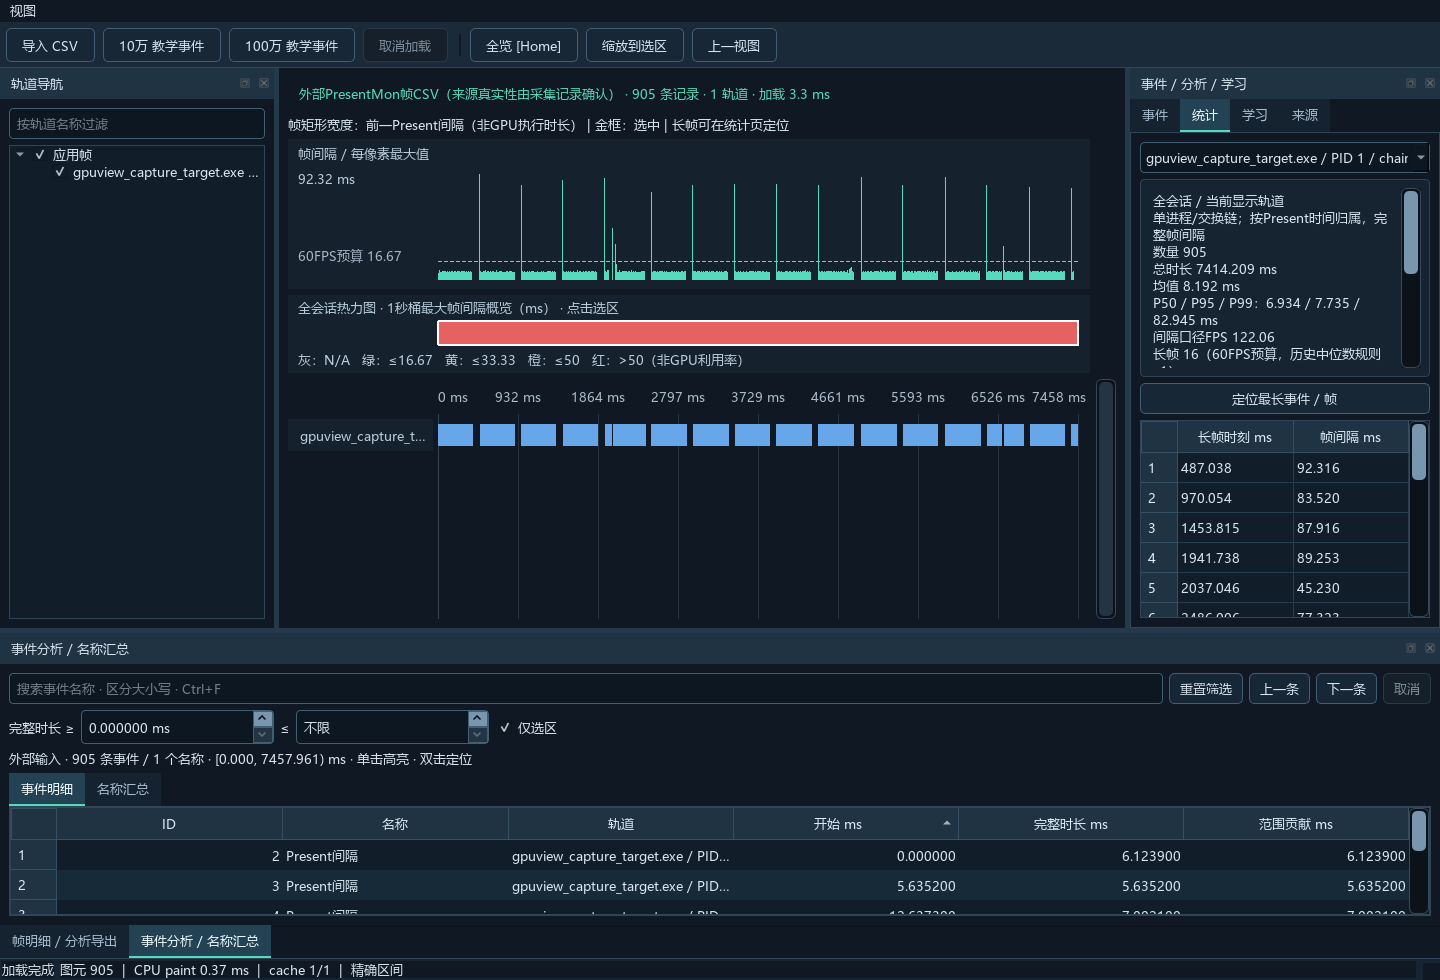
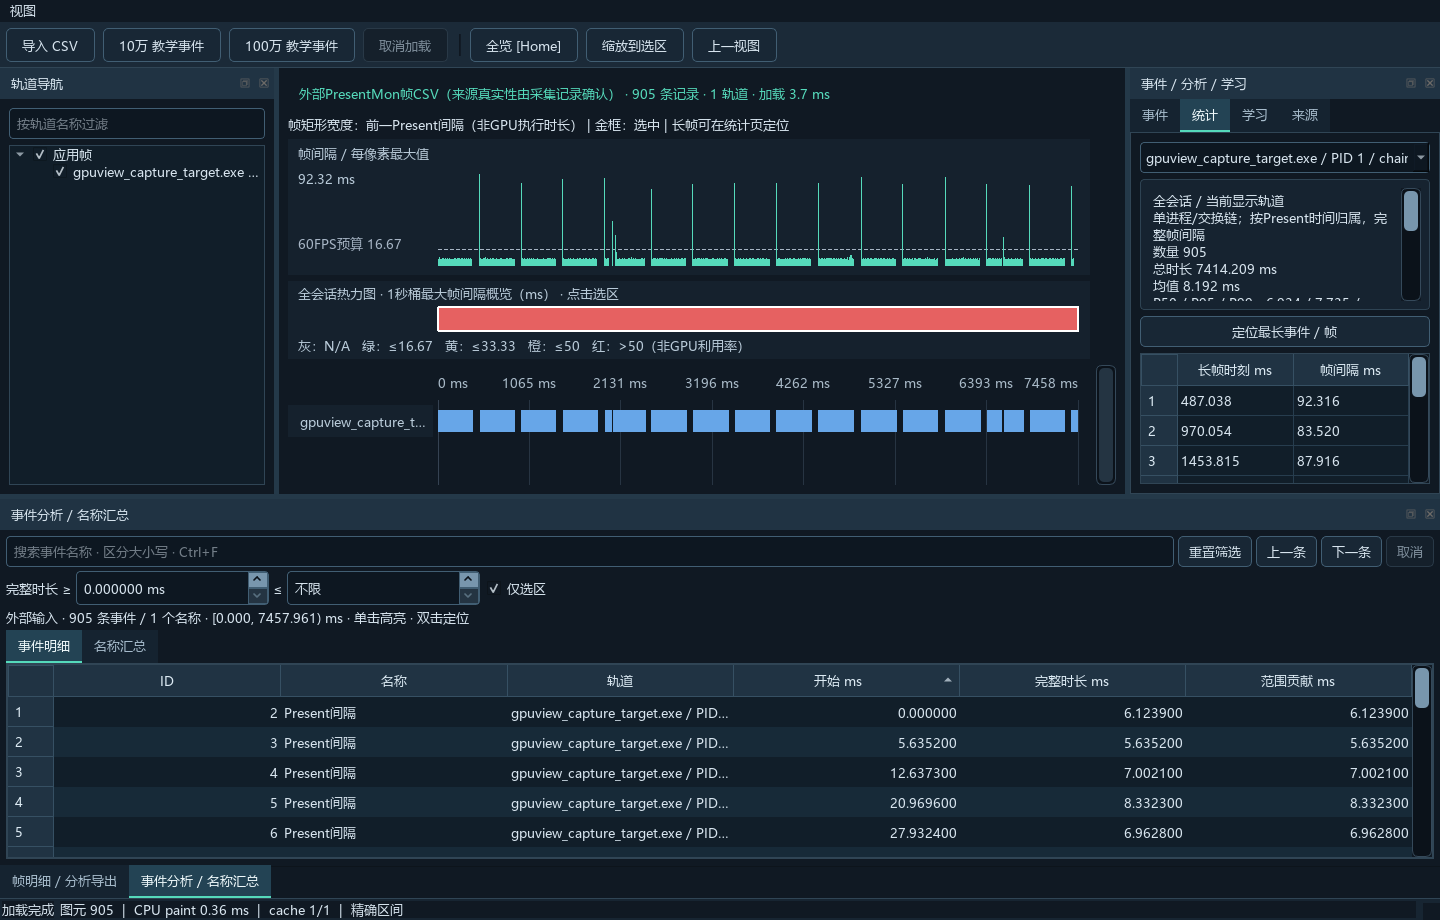
Fit compact frame workspaces and prevent time label overlap

diff --git a/tests/ui/ui_tests.cpp b/tests/ui/ui_tests.cpp
@@ -15,6 +15,8 @@
 #include "ui_widgets/frame_details_panel.h"
 #include "ui_widgets/frame_heatmap.h"
 #include "ui_widgets/event_explorer.h"
+#include "ui_widgets/theme.h"
+#include "ui_widgets/time_axis.h"
 #include <QPushButton>
 #include <QDoubleSpinBox>
 #include <QTableView>
@@ -23,11 +25,47 @@
 #include <QCheckBox>
 #include <QProgressBar>
 #include <QLabel>
+#include <QHeaderView>
 using namespace gpuview;
 /// Qt Test界面回归集合；在离屏环境模拟输入并断言可观察状态。
 class UiTests : public QObject {
     Q_OBJECT
 private slots:
+    /// 使用实际应用的中文字体和样式，避免默认测试字体掩盖窗口最小尺寸问题。
+    void initTestCase() { configureApplicationTheme(*qApp); }
+    /// 不同范围、宽度、字体下标签均不越界/重叠；减少刻度不能改变首末时间位置。
+    void timeAxisLabelsFitAvailableWidth() {
+        for(int pointSize:{10,16}) {
+            QFont font=qApp->font(); font.setPointSize(pointSize); const QFontMetrics metrics(font);
+            for(int width:{40,160,318,400,1000}) for(TimeRange range:{TimeRange{0,7457961000LL},TimeRange{10000000,10000100},TimeRange{0,120000000000LL}}) {
+                const auto ticks=timeAxisTicks(range,width,metrics); QVERIFY(!ticks.empty()); QVERIFY(ticks.size()<=9);
+                QCOMPARE(ticks.front().x,0); int previousRight=-10;
+                for(const auto& tick:ticks) {
+                    QVERIFY(tick.labelLeft>=previousRight+10);
+                    const int right=tick.labelLeft+metrics.horizontalAdvance(tick.text); QVERIFY(right<=width);
+                    previousRight=right;
+                }
+                if(ticks.size()>1) QCOMPARE(ticks.back().x,width);
+            }
+        }
+        QVERIFY(timeAxisTicks({1,1},400,QFontMetrics(qApp->font())).empty());
+        QVERIFY(timeAxisTicks({0,1},0,QFontMetrics(qApp->font())).empty());
+    }
+    /// 真实帧模式应适配1200x800逻辑像素；可选环境路径保存高DPI截图用于目视复核。
+    void frameWorkspaceFitsCompactWindow() {
+        MainWindow window; window.resize(1200,800); window.show();
+        window.controller()->requestFile(QFINDTESTDATA("../../data/samples/presentmon-real.csv"));
+        auto* model=window.findChild<EventAnalysisModel*>("eventResultsModel");
+        QTRY_COMPARE_WITH_TIMEOUT(model->rowCount(),905,5000);
+        QTRY_COMPARE_WITH_TIMEOUT(window.findChild<FrameTableModel*>()->rowCount(),905,5000);
+        QCOMPARE(window.size(),QSize(1200,800));
+        auto* table=window.findChild<QTableView*>("eventResults");
+        QVERIFY(table->viewport()->height()>=2*table->verticalHeader()->defaultSectionSize());
+        QVERIFY(window.timeline()->height()>=120);
+        QCOMPARE(window.findChild<FrameTimeWidget*>()->width(),window.timeline()->width());
+        const auto capture=qEnvironmentVariable("GPUVIEW_TEST_CAPTURE");
+        if(!capture.isEmpty()) QVERIFY(window.grab().save(capture));
+    }
     /// 非法上下限不发布旧结果，回车纠正立即提交；快捷导航沿当前排序前后切换。
     void searchValidationAndKeyboardNavigation() {
         EventExplorer panel; panel.resize(1100,320); panel.show();

diff --git a/src/ui_widgets/timeline_widget.cpp b/src/ui_widgets/timeline_widget.cpp
@@ -1,6 +1,7 @@
 /// @file src/ui_widgets/timeline_widget.cpp
 /// @brief 自绘多轨时间轴、缩放/平移/选择、轨道滚动及诊断；不可变源数据与交互状态分离。
 #include "ui_widgets/timeline_widget.h"
+#include "ui_widgets/time_axis.h"
 #include <QElapsedTimer>
 #include <QKeyEvent>
 #include <QMouseEvent>
@@ -12,7 +13,8 @@
 namespace gpuview {
 /// 初始化自绘时间轴的输入/焦点策略，源数据由不可变快照拥有。
 TimelineWidget::TimelineWidget(QWidget* parent) : QWidget(parent) {
-    setMinimumSize(480, 240);
+    // 小窗口至少保留刻度和两条完整轨道；更多轨道通过已有滚动条访问。
+    setMinimumSize(480, 120);
     setMouseTracking(true);
     setFocusPolicy(Qt::StrongFocus);
 }
@@ -139,19 +141,11 @@ void TimelineWidget::paintEvent(QPaintEvent*) {
     const auto& batch = cache_.get(snapshot_, {snapshot_->version, view, plotWidth, firstTrack_, tracks_.empty() ? 0u : visibleTracks, tracks_});
     lastPrimitives_ = batch.primitives.size();
     painter.setPen(QColor("#354252"));
-    for (int tick = 0; tick <= 8; ++tick) {
-        const int x = gutter + plotWidth * tick / 8;
+    for (const auto& tick : timeAxisTicks(view,plotWidth,painter.fontMetrics())) {
+        const int x = gutter + tick.x;
         painter.drawLine(x, top - 5, x, height());
         painter.setPen(QColor("#a9bac8"));
-        const auto spanNs = view.end - view.begin;
-        const auto time = view.begin + (spanNs / 8) * tick + (spanNs % 8) * tick / 8;
-        const auto span = view.end - view.begin;
-        const double unit = span >= 10000000000LL ? 1e9 : span >= 1000000 ? 1e6 : 1e3;
-        const QString suffix = unit == 1e9 ? " s" : unit == 1e6 ? " ms" : QStringLiteral(" μs");
-        const int precision = std::clamp(int(std::ceil(-std::log10(double(span) / unit / 8))), 0, 6);
-        const auto label = QString::number(double(time) / unit, 'f', precision) + suffix;
-        const auto labelWidth = painter.fontMetrics().horizontalAdvance(label);
-        painter.drawText(std::clamp(x - labelWidth / 2, gutter, width() - labelWidth - 4), 23, label);
+        painter.drawText(gutter+tick.labelLeft,23,tick.text);
         painter.setPen(QColor("#273442"));
     }
     for (std::uint32_t index = firstTrack_; index < std::min(std::uint32_t(tracks_.size()), firstTrack_ + visibleTracks); ++index) {

diff --git a/src/ui_widgets/time_axis.cpp b/src/ui_widgets/time_axis.cpp
@@ -1,0 +1,30 @@
+/// @file time_axis.cpp
+/// @brief 小规模标签布局，只度量至多九个字符串，不扫描事件或改变时间视口。
+#include "ui_widgets/time_axis.h"
+#include <algorithm>
+#include <cmath>
+namespace gpuview {
+/// 采用真实字体宽度试排；端点优先，无法同时容纳两个标签时只显示省略后的起点。
+std::vector<TimeAxisTick> timeAxisTicks(TimeRange range,int width,const QFontMetrics& metrics) {
+    if(width<=0 || range.begin<0 || range.end<=range.begin) return {};
+    const auto span=range.end-range.begin;
+    const double unit=span>=10000000000LL?1e9:span>=1000000?1e6:1e3;
+    const QString suffix=unit==1e9?" s":unit==1e6?" ms":QStringLiteral(" μs");
+    for(int count=8;count>=1;--count) {
+        const int precision=std::clamp(int(std::ceil(-std::log10(double(span)/unit/count))),0,6);
+        std::vector<TimeAxisTick> ticks; int previousRight=-10; bool fits=true;
+        for(int i=0;i<=count;++i) {
+            // 先商后乘，避免大纳秒跨度直接乘刻度序号溢出。
+            const auto time=range.begin+(span/count)*i+(span%count)*i/count;
+            const auto text=QString::number(double(time)/unit,'f',precision)+suffix;
+            const int textWidth=metrics.horizontalAdvance(text);
+            const int x=int(qint64(width)*i/count);
+            const int left=std::clamp(x-textWidth/2,0,std::max(0,width-textWidth));
+            if(textWidth>width || left<previousRight+10) { fits=false; break; }
+            ticks.push_back({x,left,text}); previousRight=left+textWidth;
+        }
+        if(fits) return ticks;
+    }
+    return {{0,0,metrics.elidedText(QString::number(double(range.begin)/unit,'f',3)+suffix,Qt::ElideRight,width)}};
+}
+}

diff --git a/src/ui_widgets/event_explorer.cpp b/src/ui_widgets/event_explorer.cpp
@@ -75,6 +75,7 @@ EventExplorer::EventExplorer(QWidget* parent):QWidget(parent) {
     setObjectName("eventExplorer");
     setToolTip(QStringLiteral("筛选只作用于本面板；现有帧分析导出仍使用统计页的组和选区，不包含这里的名称/时长筛选。"));
     auto* layout=new QVBoxLayout(this); auto* searchRow=new QHBoxLayout; auto* controls=new QHBoxLayout;
+    layout->setContentsMargins(6,6,6,6); layout->setSpacing(4);
     text_=new QLineEdit; text_->setObjectName("eventSearch");
     text_->setPlaceholderText(QStringLiteral("搜索事件名称 · 区分大小写 · Ctrl+F")); text_->setClearButtonEnabled(true);
     text_->setAccessibleName(QStringLiteral("搜索事件名称")); searchRow->addWidget(text_,1);
@@ -106,6 +107,8 @@ EventExplorer::EventExplorer(QWidget* parent):QWidget(parent) {
         table->setEditTriggers(QAbstractItemView::NoEditTriggers); table->setAlternatingRowColors(true);
         table->verticalHeader()->setSectionResizeMode(QHeaderView::Fixed);
         table->verticalHeader()->setDefaultSectionSize(30); table->setShowGrid(false);
+        // 允许面板缩到表头加两行，完整结果仍由滚动条访问，不依赖默认平台最小尺寸。
+        table->setMinimumHeight(96);
         table->horizontalHeader()->setSectionResizeMode(QHeaderView::Stretch);
         table->setSortingEnabled(true);
     }

diff --git a/src/app/main.cpp b/src/app/main.cpp
@@ -6,25 +6,13 @@
 #include "ui_widgets/theme.h"
 #include <QApplication>
 #include <QTimer>
-#include <QFile>
-#include <QTextStream>
-#include <QFontDatabase>
-#include <QDir>
 #include <QTabWidget>
 /// 应用进程入口；建立Qt事件循环，处理教学/CSV启动和离屏截图参数。
 int main(int argc, char** argv) {
     QApplication app(argc, argv);
     app.setApplicationName("GPUView");
     app.setApplicationVersion("0.4.0");
-    // Fusion以Qt调色板绘制标准控件，使深色箭头/复选框跨系统主题保持可见。
-    app.setStyle(QStringLiteral("Fusion")); app.setPalette(gpuview::darkPalette());
-    // Windows离屏平台不一定自动枚举系统字体；只读取本机字体，不打包分发字体文件。
-#ifdef Q_OS_WIN
-    const auto fontPath = QDir(qEnvironmentVariable("SystemRoot", "C:/Windows")).filePath("Fonts/msyh.ttc");
-    const int fontId = QFontDatabase::addApplicationFont(fontPath);
-    const auto families = QFontDatabase::applicationFontFamilies(fontId);
-    if (!families.isEmpty()) app.setFont(QFont(families.front(), 10));
-#endif
+    gpuview::configureApplicationTheme(app);
     gpuview::MainWindow window;
     const auto args = app.arguments();
     const int openFile = args.indexOf("--open");

diff --git a/src/ui_widgets/main_window.cpp b/src/ui_widgets/main_window.cpp
@@ -82,7 +82,7 @@ MainWindow::MainWindow(QWidget* parent) : QMainWindow(parent) {
     tabs->addTab(detail,QStringLiteral("事件"));
     auto* analysisPage = new QWidget; auto* analysisLayout = new QVBoxLayout(analysisPage);
     auto* group = new QComboBox; group->setObjectName("statisticsGroup"); analysisLayout->addWidget(group);
-    auto* summary = new QTextBrowser; summary->setObjectName("statisticsSummary"); summary->setMinimumHeight(160); analysisLayout->addWidget(summary,1);
+    auto* summary = new QTextBrowser; summary->setObjectName("statisticsSummary"); summary->setMinimumHeight(120); analysisLayout->addWidget(summary,1);
     auto* longest = new QPushButton(QStringLiteral("定位最长事件 / 帧")); longest->setEnabled(false); analysisLayout->addWidget(longest);
     auto* longTable = new QTableWidget(0,2); longTable->setObjectName("longFrames"); longTable->setHorizontalHeaderLabels({QStringLiteral("长帧时刻 ms"),QStringLiteral("帧间隔 ms")});
     longTable->setEditTriggers(QAbstractItemView::NoEditTriggers); longTable->setSelectionBehavior(QAbstractItemView::SelectRows);

diff --git a/src/ui_widgets/theme.cpp b/src/ui_widgets/theme.cpp
@@ -1,7 +1,19 @@
 /// @file theme.cpp
 /// @brief 深色工作台样式，显式区分焦点、选择、禁用、悬停和滚动滑块。
 #include "ui_widgets/theme.h"
+#include <QApplication>
+#include <QFontDatabase>
+#include <QDir>
 namespace gpuview {
+/// 离屏平台未必枚举系统字体，测试必须使用与应用相同的字体和样式才能验证尺寸。
+void configureApplicationTheme(QApplication& app) {
+    app.setStyle(QStringLiteral("Fusion")); app.setPalette(darkPalette());
+#ifdef Q_OS_WIN
+    const auto fontPath=QDir(qEnvironmentVariable("SystemRoot","C:/Windows")).filePath("Fonts/msyh.ttc");
+    const auto families=QFontDatabase::applicationFontFamilies(QFontDatabase::addApplicationFont(fontPath));
+    if(!families.isEmpty()) app.setFont(QFont(families.front(),10));
+#endif
+}
 /// 显式设置文字/按钮/占位/禁用角色，避免系统浅色调色板在深色背景画黑色箭头。
 QPalette darkPalette() {
     QPalette palette;

diff --git a/src/ui_widgets/frame_time_widget.h b/src/ui_widgets/frame_time_widget.h
@@ -9,7 +9,9 @@ class FrameTimeWidget : public QWidget {
     Q_OBJECT
 public:
     /// 设置帧曲线高度；只消费已发布快照，不直接解析CSV。
-    explicit FrameTimeWidget(QWidget* parent = nullptr) : QWidget(parent) { setMinimumHeight(150); setMaximumHeight(210); }
+    explicit FrameTimeWidget(QWidget* parent = nullptr) : QWidget(parent) { setMinimumHeight(110); setMaximumHeight(210); }
+    /// 常规窗口优先150逻辑像素，紧凑窗口允许压缩，仍保留尖峰和预算线。
+    QSize sizeHint() const override { return {480,150}; }
     /// 绑定当前源轨道的只读快照并恢复全范围；track由上层有效分组提供。
     void setData(Snapshot snapshot, std::uint32_t track) { snapshot_=std::move(snapshot); track_=track; if(snapshot_) range_=snapshot_->bounds; update(); }
     /// 同步可见纳秒范围并请求重绘，不在此重新计算精确统计。

diff --git a/src/ui_widgets/time_axis.h b/src/ui_widgets/time_axis.h
@@ -1,0 +1,20 @@
+/// @file time_axis.h
+/// @brief 根据真实字体度量安排时间轴标签，避免固定九个标签挤在窄视口。
+#pragma once
+#include "core/trace_store.h"
+#include <QFontMetrics>
+#include <QString>
+#include <vector>
+namespace gpuview {
+/// 一个逻辑像素刻度及其标签；坐标相对绘图区左边，不包含轨道名称区。
+struct TimeAxisTick {
+    /// 网格线横坐标，位于[0,绘图区宽度]。
+    int x;
+    /// 文本起点横坐标，经过边界夹紧与间距验证。
+    int labelLeft;
+    /// 带时间单位的标签；极窄视口使用省略号。
+    QString text;
+};
+/// 从最多8个间隔逐步减少，保证标签间至少10逻辑像素；无效范围返回空。
+std::vector<TimeAxisTick> timeAxisTicks(TimeRange range,int width,const QFontMetrics& metrics);
+}

diff --git a/src/ui_widgets/theme.h b/src/ui_widgets/theme.h
@@ -3,9 +3,12 @@
 #pragma once
 #include <QString>
 #include <QPalette>
+class QApplication;
 namespace gpuview {
 /// 返回统一深色主题；逻辑像素由Qt处理DPI缩放，不烘焙位图控件。
 QString darkTheme();
 /// 补全原生箭头、复选框等样式表之外的颜色角色，供应用Fusion样式使用。
 QPalette darkPalette();
+/// 统一应用与离屏测试的样式、调色板和中文字体；仅读取系统字体，不打包字体资源。
+void configureApplicationTheme(QApplication& app);
 }

diff --git a/docs/07-interview/UI_REFINEMENT.md b/docs/07-interview/UI_REFINEMENT.md
@@ -53,3 +53,17 @@
 视觉细节：[DurationSpinBox](../../src/ui_widgets/duration_spin_box.cpp)仅补画矢量箭头，按钮矩形取自QStyle，输入/点击/键盘语义仍由QDoubleSpinBox负责；不引入SVG图像插件或逐帧对象。Fusion和统一调色板用于标准控件，样式表显式区分箭头按钮可用/禁用/悬停背景。
 
 验证：searchValidationAndKeyboardNavigation通过实际键盘事件检查非法提示、恢复查询、F3下一项和Shift+F3上一项；本轮最终62个实际用例（Core47+UI15），Release界面截图已目视检查箭头和结果行。没有把移除固定等待宣称为端到端P95；高DPI人工验收仍待进行。
+
+## 第五轮：最小尺寸与字体度量（2026-10-01）
+
+面试问题：窗口设置成800像素高，为什么导入数据后又长高了？单纯按DPI缩放能解决文字重叠吗？
+
+复现：用实际应用中文字体，将窗口设为1200×800再导入905帧夹具。修复前Qt布局的minimumSizeHint为1037×980，窗口实际变为1200×980；中央图表/时间轴要求560高，底部搜索面板要求292高，再加工具栏和Dock等边界。Qt遵守最小尺寸约束，因此直接resize无效。
+
+解决思路：保留时间轴刻度和至少两条完整轨道，将其最小高度改为120；帧图常规建议150高，但允许压至110；统计文本与搜索表格允许缩小并继续滚动。搜索区减少空白边距，不隐藏筛选或截断数据。[FrameTimeWidget::sizeHint](../../src/ui_widgets/frame_time_widget.h)区分“偏好高度”和“硬下限”。最终同场景minimumSizeHint为1037×798，窗口保持1200×800，底部仍容纳两条完整结果行。
+
+第二个问题是固定九个刻度在约400像素的绘图区重叠。[timeAxisTicks](../../src/ui_widgets/time_axis.cpp)使用当前QFontMetrics试排，逐步减少间隔，保证文字不越界且间隔至少10逻辑像素。极窄区域只显示省略后的起点；这只改变标签数量，不改变数据范围、查询或单位。最多九个字符串，工作量与事件数无关。
+
+验证：应用和UI测试共用[字体/主题配置](../../src/ui_widgets/theme.cpp)，避免默认测试字体偏小而漏报问题。frameWorkspaceFitsCompactWindow检查真实帧加载后窗口尺寸、两行结果和图表对齐；timeAxisLabelsFitAvailableWidth覆盖10/16磅字体、40至1000像素宽和三种时间范围。Debug/Release共64个实际用例通过；另用QT_SCALE_FACTOR=1.5运行两项布局测试并[检查1800×1200物理像素截图](../../assets/screenshots/compact-150.png)，逻辑窗口仍为1200×800。
+
+边界：这不代表任意屏幕都能容纳所有Dock，也不替代多显示器实际拖动和系统字体变更测试。较小的可用逻辑空间仍可通过关闭面板腾出空间；尚未实现自动紧凑模式。性能基准没有因刻度改动重新宣称提升。

diff --git a/docs/00-review/STATUS.md b/docs/00-review/STATUS.md
@@ -1,6 +1,6 @@
 # 项目状态与接续入口
 
-更新时间：2026-09-30，v0.4。当前用户方向：持续复盘界面美化和性能优化。用户已授权开发与公开同步，不代表全部A/B功能已验收。
+更新时间：2026-10-01，v0.4。当前用户方向：持续复盘界面美化和性能优化。用户已授权开发与公开同步，不代表全部A/B功能已验收。
 
 ## 持续优化进行中
 
@@ -11,7 +11,9 @@
 - 同机排序对照40条测量：百万事件仅汇总排序中位数200.30→7.84ms；事件时长排序414.39→421.94ms，未改善。详情见[报告](../../benchmarks/reports/EVENT_SORT.md)，不宣称所有路径提速。
 - 第三轮完成：选中已可见轨道不滚屏，越界时最小滚动；隐藏空闲加载进度，一键恢复默认Dock布局；去除轨道过滤的重复统计请求。Debug/Release通过61个实际用例（Core47+UI14），新增最小滚动和布局恢复后数据/搜索不变测试。
 - 第四轮完成：表头/回车/重置绕过180ms输入防抖；F3/Shift+F3导航；非法时长中文提示并释放旧缓存；深色标准控件和矢量步进箭头已截图检查。Debug/Release均通过62个实际用例（Core47+UI15），新增文件已同步根目录Studio工程列表。
-- 本地提交9cb1db4（主题/搜索）、0d33a52（排序复用）、ef5eab9（导航/布局）已保留。GitHub直连超时已定位为未使用系统代理，通过现有系统代理成功读取远端；不修改全局Git配置或凭据，完成本轮后同步。
+- 提交9cb1db4（主题/搜索）、0d33a52（排序复用）、ef5eab9（导航/布局）、07f87e1（快捷操作/箭头）已全部推送GitHub main，包含此前尚未推送的v0.4。连接通过现有系统代理恢复；未修改全局Git配置或凭据。
+- 第五轮完成：真实帧模式最小高度从980降至798，1200×800窗口不再被撑高；保留两行搜索结果、至少两条时间轨道和图表对齐。时间标签按实际字体宽度避让，新增独立time_axis模块。
+- Debug/Release各64个实际用例（Core47+UI17）通过；应用/测试使用同一中文字体与主题。100%和150%离屏紧凑窗口已截图检查，尚未代表任意物理屏幕或多显示器适配。
 
 ## v0.4基础：事件搜索、名称汇总与时间轴联动
 
